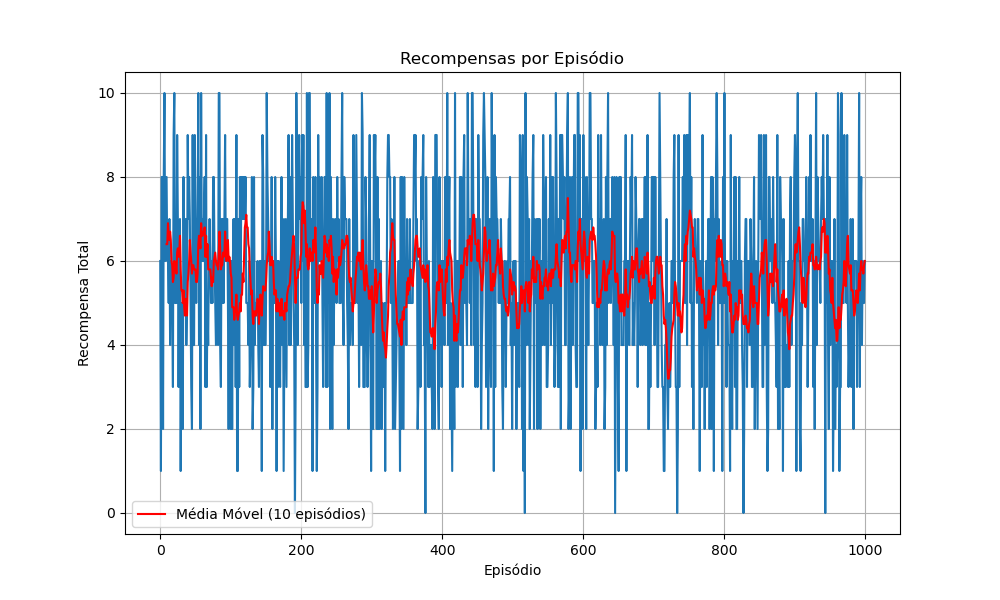
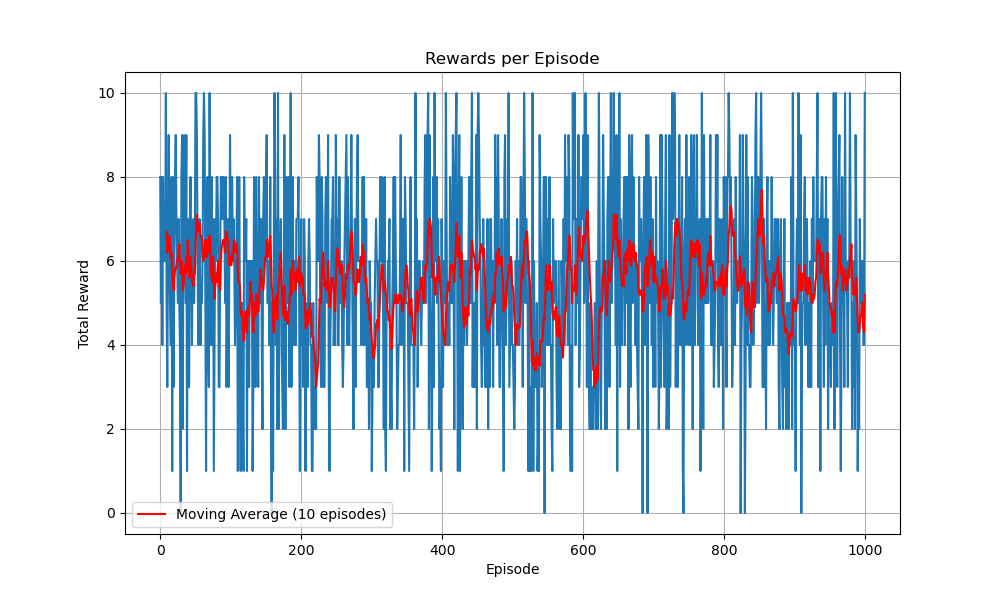
🌐 English

diff --git a/src/custom_env/clementine.py b/src/custom_env/clementine.py
@@ -66,7 +66,7 @@ class Clementine:
                     self._render_frame()
 
             self.steps += 1
-            truncated = self.steps >= 1000  # Limita o número de passos por episódio
+            truncated = self.steps >= 1000  # Limit the number of steps per episode
             
             return observation, reward, terminated, truncated, {}
 
@@ -125,8 +125,8 @@ class Clementine:
         return rewards_per_episode
     
     def _process_state(self, state):
-        """Processa o estado para uso na tabela Q."""
-        # Se for dict vindo do ambiente original
+        """Process the state for use in the Q-table."""
+        # If it's a dict from the original environment
         if isinstance(state, dict) and "internal_states" in state:
             state = state["internal_states"]
         
@@ -194,7 +194,7 @@ class Clementine:
         return avg_reward
 
     def _render_frame(self):
-        """Renderiza o estado atual do ambiente usando pygame."""
+        """Renders the current state of the environment using pygame."""
         if not hasattr(self, 'screen'):
             pygame.init()
             self.screen_width = 600
@@ -203,15 +203,15 @@ class Clementine:
             pygame.display.set_caption("Clementine Environment")
             self.clock = pygame.time.Clock()
             
-        # Limpa a tela
+        # Clear the screen
         self.screen.fill((255, 255, 255))
         
-        # Desenha o estado atual
+        # Draw the current state
         center_x, center_y = self.screen_width // 2, self.screen_height // 2
         grid_size = min(self.screen_width, self.screen_height) - 100
         cell_size = grid_size // (2 * self.maxh + 1)
         
-        # Desenha a grade
+        # Draw the grid
         for i in range(-self.maxh, self.maxh + 1):
             for j in range(-self.maxh, self.maxh + 1):
                 rect_x = center_x + i * cell_size - cell_size // 2
@@ -219,38 +219,38 @@ class Clementine:
                 pygame.draw.rect(self.screen, (200, 200, 200), 
                                  (rect_x, rect_y, cell_size, cell_size), 1)
                 
-                # Marca o ponto ótimo
+                # Mark the optimal point
                 if i == 0 and j == 0:
                     pygame.draw.rect(self.screen, (0, 255, 0), 
                                      (rect_x, rect_y, cell_size, cell_size))
         
-        # Desenha o agente na posição atual
+        # Draw the agent at the current position
         agent_x = center_x + self.current_state[0] * cell_size - cell_size // 2
         agent_y = center_y + self.current_state[1] * cell_size - cell_size // 2
         pygame.draw.circle(self.screen, (255, 0, 0), 
                           (agent_x + cell_size // 2, agent_y + cell_size // 2), 
                           cell_size // 2)
         
-        # Atualiza a tela
+        # Update the display
         pygame.display.flip()
         self.clock.tick(30)
         pygame.event.pump()
 
 
 def plot_rewards(rewards):
-    """Plota a curva de recompensas do treinamento."""
+    """Plot the training rewards curve."""
     plt.figure(figsize=(10, 6))
     plt.plot(rewards)
-    plt.title('Recompensas por Episódio')
-    plt.xlabel('Episódio')
-    plt.ylabel('Recompensa Total')
+    plt.title('Rewards per Episode')
+    plt.xlabel('Episode')
+    plt.ylabel('Total Reward')
     plt.grid(True)
     
-    # Adiciona a média móvel
+    # Add moving average
     window_size = min(10, len(rewards))
     if window_size > 0:
         moving_avg = np.convolve(rewards, np.ones(window_size)/window_size, mode='valid')
-        plt.plot(range(window_size-1, len(rewards)), moving_avg, 'r', label=f'Média Móvel ({window_size} episódios)')
+        plt.plot(range(window_size-1, len(rewards)), moving_avg, 'r', label=f'Moving Average ({window_size} episodes)')
     
     plt.legend()
     plt.savefig('training_rewards.png')
@@ -258,38 +258,38 @@ def plot_rewards(rewards):
 
 
 def main():
-    """Função principal para treinamento e avaliação do agente Clementine."""
-    # Parâmetros
-    config_path = "config/config.yaml"  # Ajuste para o caminho correto do seu arquivo de configuração
-    drive_type = "base_drive"  # Tipo de drive a ser usado
-    render_mode = None  # Defina como "human" para visualizar o treinamento
-    num_episodes = 1000  # Número de episódios para treinamento
-    eval_episodes = 10  # Número de episódios para avaliação
+    """Main function for training and evaluating the Clementine agent."""
+    # Parameters
+    config_path = "config/config.yaml"  # Adjust to the correct path of your configuration file
+    drive_type = "brase_drive"  # Type of drive to use
+    render_mode = None  # Set to "human" to visualize training
+    num_episodes = 1000  # Number of episodes for training
+    eval_episodes = 10  # Number of episodes for evaluation
     
-    print("Iniciando ambiente Clementine...")
+    print("Initializing Clementine environment...")
     env = Clementine(config_path, drive_type, render_mode=render_mode)
     
-    print(f"\nIniciando treinamento por {num_episodes} episódios...")
+    print(f"\nStarting training for {num_episodes} episodes...")
     start_time = time.time()
     rewards = env.train(num_episodes)
     training_time = time.time() - start_time
-    print(f"Treinamento concluído em {training_time:.2f} segundos!")
+    print(f"Training completed in {training_time:.2f} seconds!")
     
-    # Plotar a curva de recompensas
+    # Plot the rewards curve
     plot_rewards(rewards)
     
-    # Avaliação com renderização
-    print(f"\nAvaliando o agente treinado por {eval_episodes} episódios...")
-    # Cria uma nova instância para avaliação com renderização
+    # Evaluation with rendering
+    print(f"\nEvaluating the trained agent for {eval_episodes} episodes...")
+    # Create a new instance for evaluation with rendering
     eval_env = Clementine(config_path, drive_type, render_mode="human")
-    # Copia a tabela Q do agente treinado
+    # Copy the Q-table from the trained agent
     eval_env.agent.q_table = env.agent.q_table.copy()
-    eval_env.agent.epsilon = 0.0  # Desativa a exploração durante a avaliação
+    eval_env.agent.epsilon = 0.0  # Disable exploration during evaluation
     
-    avg_reward = eval_env.evaluate(num_episodes=eval_episodes, render='human')
-    print(f"Avaliação concluída! Recompensa média: {avg_reward:.2f}")
+    avg_reward = eval_env.evaluate(num_episodes=eval_episodes, render=True)
+    print(f"Evaluation completed! Average reward: {avg_reward:.2f}")
     
-    # Fecha pygame se estiver ativo
+    # Close pygame if active
     if render_mode == "human" or eval_env.render_mode == "human":
         pygame.quit()
 
